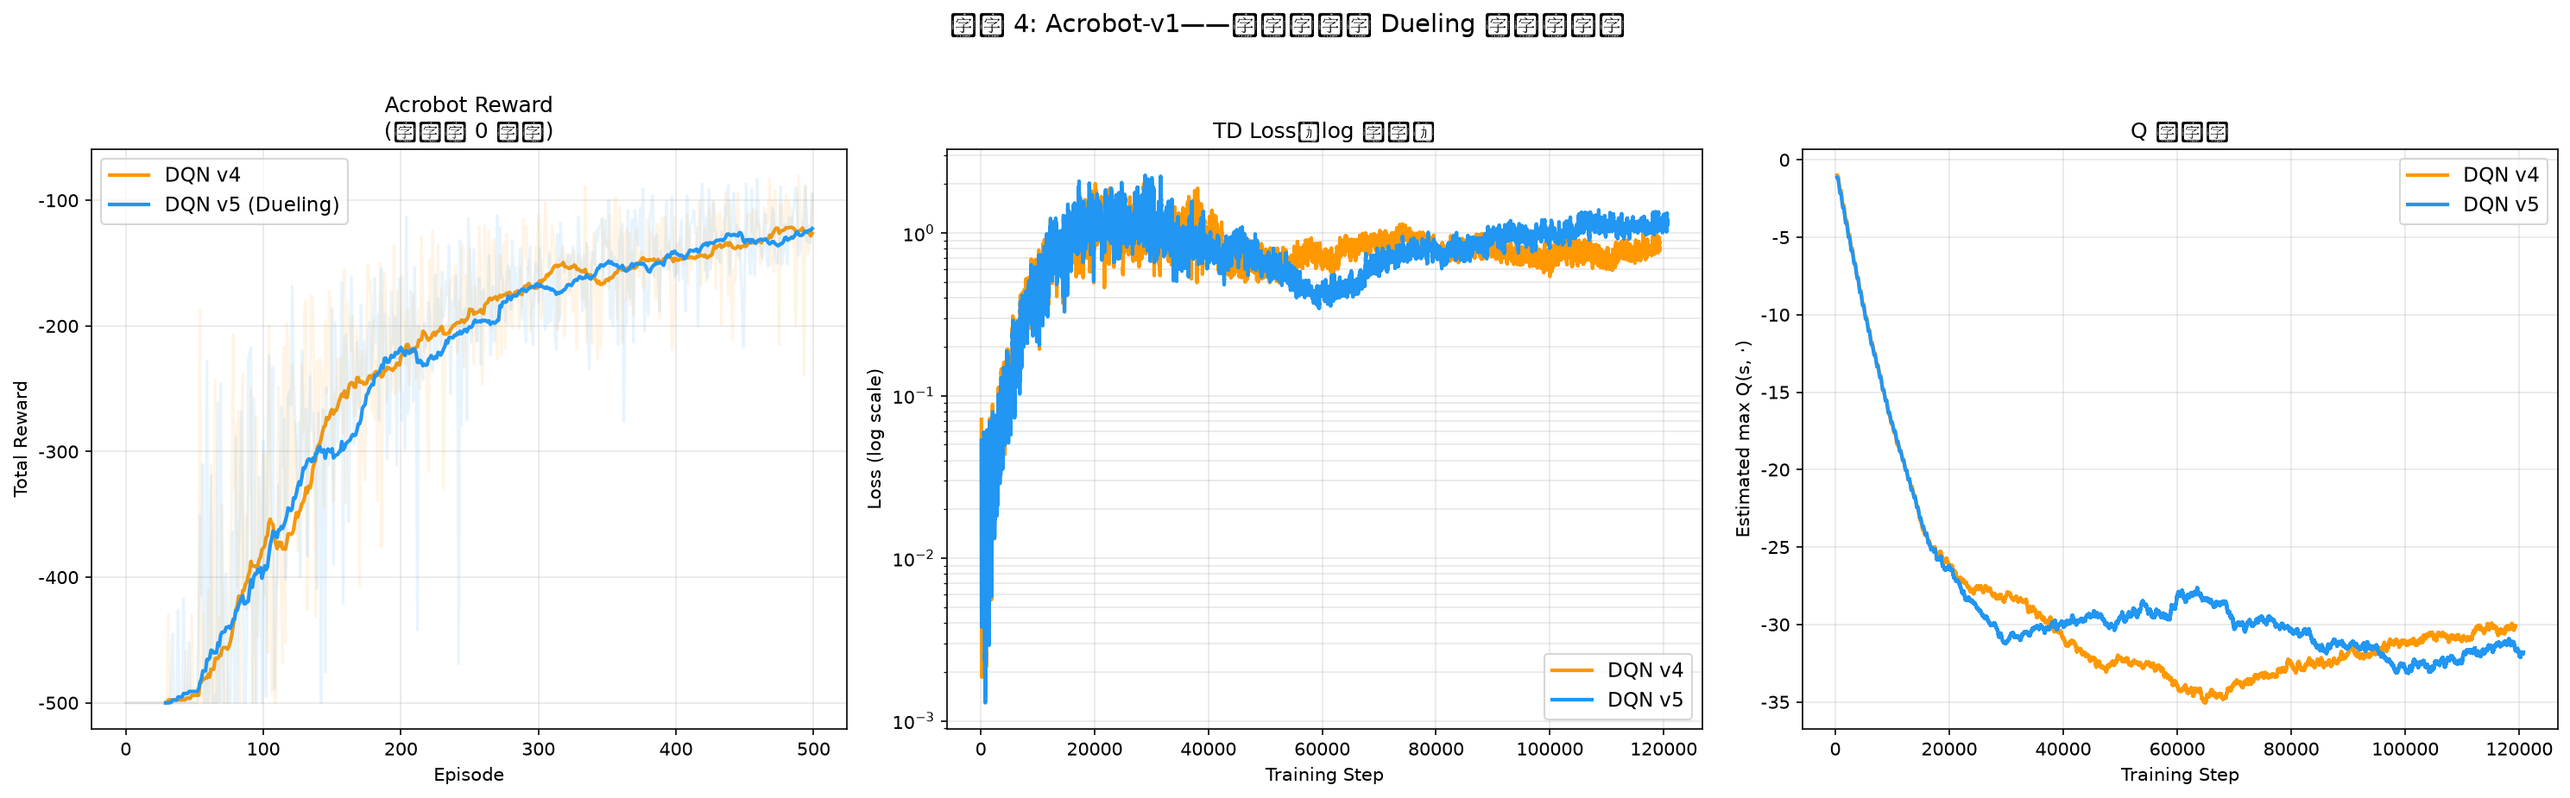
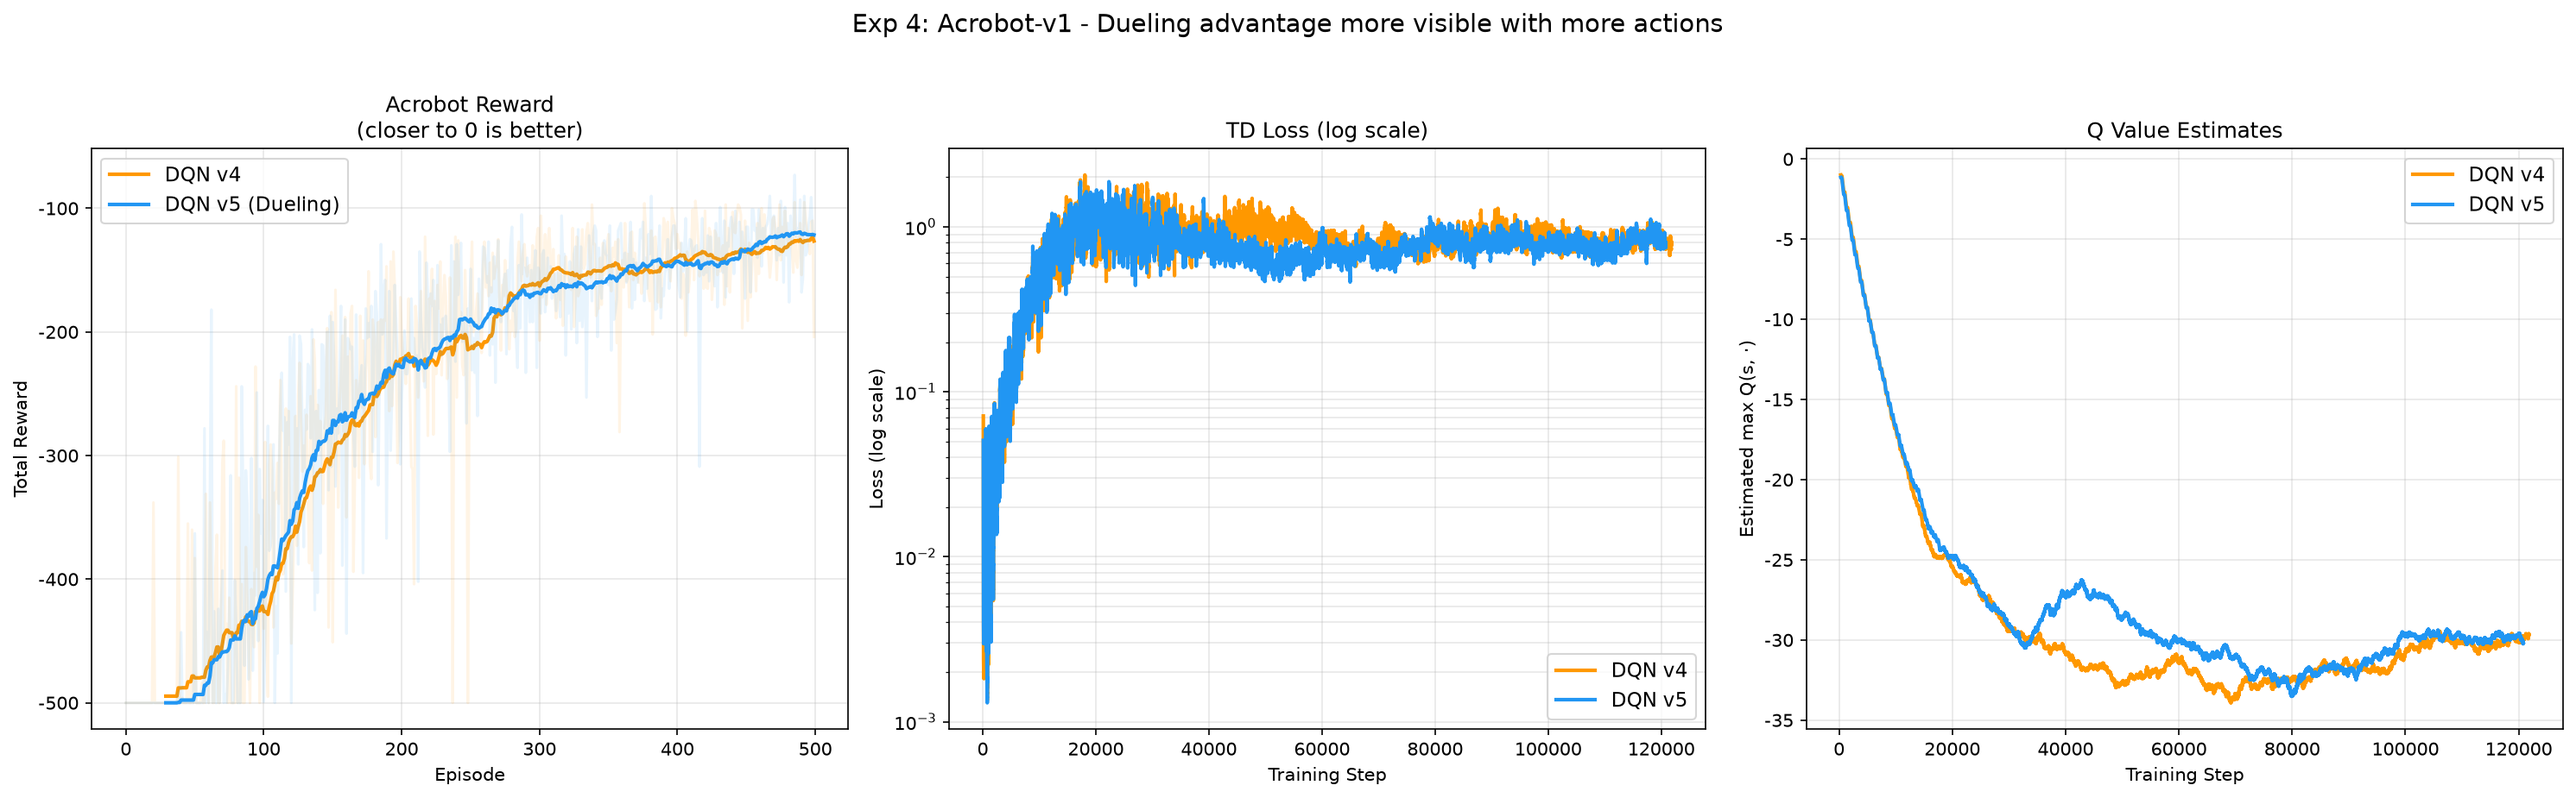
phase-3: fix DQN v5 plots - replace Chinese labels with English

diff --git a/phase3_dqn/dqn_v5_dueling_dqn.py b/phase3_dqn/dqn_v5_dueling_dqn.py
@@ -454,7 +454,7 @@ def visualize_v4_vs_v5(agent_v4, agent_v5, save_path=None):
                      color=color, linewidth=2, label=label)
     axes[0].set_xlabel('Episode')
     axes[0].set_ylabel('Total Reward')
-    axes[0].set_title('Reward 曲线：Dueling 架构加速学习')
+    axes[0].set_title('Reward Curve: Dueling Architecture Accelerates Learning')
     axes[0].legend(fontsize=11)
     axes[0].grid(True, alpha=0.3)
     axes[0].axhline(y=500, color='green', linestyle='--', alpha=0.3)
@@ -470,11 +470,11 @@ def visualize_v4_vs_v5(agent_v4, agent_v5, save_path=None):
     axes[1].set_xlabel('Training Step')
     axes[1].set_ylabel('Loss (log scale)')
     axes[1].set_yscale('log')
-    axes[1].set_title('TD Loss 曲线（log 刻度）')
+    axes[1].set_title('TD Loss (log scale)')
     axes[1].legend(fontsize=11)
     axes[1].grid(True, alpha=0.3, which='both')
 
-    plt.suptitle('实验 1: DQN v4 vs v5（Dueling DQN）', fontsize=14, y=1.02)
+    plt.suptitle('Exp 1: DQN v4 vs v5 (Dueling DQN)', fontsize=14, y=1.02)
     plt.tight_layout()
     if save_path:
         plt.savefig(save_path, dpi=150, bbox_inches='tight')
@@ -501,11 +501,11 @@ def visualize_va_decomposition(agent_v5, save_path=None):
         axes[0].plot(v_vals, alpha=0.08, color='#4CAF50')
         smoothed = smooth(v_vals, window)
         axes[0].plot(range(window - 1, len(v_vals)), smoothed,
-                     color='#4CAF50', linewidth=2, label='V(s) 状态价值')
+                     color='#4CAF50', linewidth=2, label='V(s) state value')
     axes[0].set_xlabel('Training Step')
     axes[0].set_ylabel('V(s)')
-    axes[0].set_title('Value Stream: V(s) 学到的状态价值\n'
-                      '(随训练增长 → 网络逐渐理解"好状态"的价值)')
+    axes[0].set_title('Value Stream: learned state value V(s)\n'
+                      '(grows with training - network learns "how good is this state")')
     axes[0].legend(fontsize=11)
     axes[0].grid(True, alpha=0.3)
 
@@ -515,11 +515,11 @@ def visualize_va_decomposition(agent_v5, save_path=None):
         axes[1].plot(a_vals, alpha=0.08, color='#FF5722')
         smoothed = smooth(a_vals, window)
         axes[1].plot(range(window - 1, len(a_vals)), smoothed,
-                     color='#FF5722', linewidth=2, label='|A(s,a)| 优势幅度')
+                     color='#FF5722', linewidth=2, label='|A(s,a)| advantage magnitude')
     axes[1].set_xlabel('Training Step')
     axes[1].set_ylabel('mean |A(s,a)|')
-    axes[1].set_title('Advantage Stream: 动作间差异的大小\n'
-                      '(幅度小 → 多数状态下动作选择不太重要，V 流主导)')
+    axes[1].set_title('Advantage Stream: magnitude of action differences\n'
+                      '(small |A| = action choice mostly irrelevant, V dominates)')
     axes[1].legend(fontsize=11)
     axes[1].grid(True, alpha=0.3)
 
@@ -532,20 +532,20 @@ def visualize_va_decomposition(agent_v5, save_path=None):
         axes[2].plot(range(window - 1, window - 1 + n), q_smoothed[:n],
                      color='#2196F3', linewidth=2, label='Q(s,a) = V + A')
         axes[2].plot(range(window - 1, window - 1 + n), v_smoothed[:n],
-                     color='#4CAF50', linewidth=2, label='V(s) 部分')
+                     color='#4CAF50', linewidth=2, label='V(s) component')
         axes[2].fill_between(
             range(window - 1, window - 1 + n),
             v_smoothed[:n], q_smoothed[:n],
-            alpha=0.2, color='#FF5722', label='A(s,a) 部分'
+            alpha=0.2, color='#FF5722', label='A(s,a) component'
         )
     axes[2].set_xlabel('Training Step')
     axes[2].set_ylabel('Value')
-    axes[2].set_title('Q = V + A 分解\n'
-                      '(V 占主导，A 只是微调 → Dueling 让 V 的学习更高效)')
+    axes[2].set_title('Q = V + A decomposition\n'
+                      '(V dominates, A is just fine-tuning - Dueling learns V efficiently)')
     axes[2].legend(fontsize=11)
     axes[2].grid(True, alpha=0.3)
 
-    plt.suptitle('实验 2: Dueling DQN 的 V/A 分解可视化', fontsize=14, y=1.02)
+    plt.suptitle('Exp 2: Dueling DQN V/A Decomposition', fontsize=14, y=1.02)
     plt.tight_layout()
     if save_path:
         plt.savefig(save_path, dpi=150, bbox_inches='tight')
@@ -588,9 +588,9 @@ def visualize_advantage_heatmap(agent_v5, save_path=None):
                           extent=[positions[0], positions[-1],
                                   angles[-1], angles[0]],
                           aspect='auto', cmap='RdYlGn')
-    axes[0].set_xlabel('位置 (position)')
-    axes[0].set_ylabel('角度 (angle)')
-    axes[0].set_title('V(s): 状态价值\n(中心高、边缘低 → 稳定状态价值高)')
+    axes[0].set_xlabel('Position')
+    axes[0].set_ylabel('Angle')
+    axes[0].set_title('V(s): State Value\n(high in center, low at edges - stable states are valuable)')
     plt.colorbar(im0, ax=axes[0])
 
     # |A| 热力图
@@ -598,9 +598,9 @@ def visualize_advantage_heatmap(agent_v5, save_path=None):
                           extent=[positions[0], positions[-1],
                                   angles[-1], angles[0]],
                           aspect='auto', cmap='hot')
-    axes[1].set_xlabel('位置 (position)')
-    axes[1].set_ylabel('角度 (angle)')
-    axes[1].set_title('max|A(s,a)|: 动作选择重要性\n(亮 = 选对动作很关键)')
+    axes[1].set_xlabel('Position')
+    axes[1].set_ylabel('Angle')
+    axes[1].set_title('max|A(s,a)|: Action Selection Importance\n(bright = choosing right action is critical)')
     plt.colorbar(im1, ax=axes[1])
 
     # 最优动作
@@ -608,13 +608,13 @@ def visualize_advantage_heatmap(agent_v5, save_path=None):
                           extent=[positions[0], positions[-1],
                                   angles[-1], angles[0]],
                           aspect='auto', cmap='coolwarm')
-    axes[2].set_xlabel('位置 (position)')
-    axes[2].set_ylabel('角度 (angle)')
-    axes[2].set_title('最优动作 (蓝=左, 红=右)\n(与 |A| 热力图对应：亮处=决策边界)')
+    axes[2].set_xlabel('Position')
+    axes[2].set_ylabel('Angle')
+    axes[2].set_title('Best Action (blue=left, red=right)\n(bright regions in |A| heatmap = decision boundary)')
     plt.colorbar(im2, ax=axes[2])
 
-    plt.suptitle('实验 3: Dueling DQN 学到的 V/A 地形\n'
-                 '(固定速度=0, 角速度=0)', fontsize=14, y=1.02)
+    plt.suptitle('Exp 3: Dueling DQN learned V/A landscape\n'
+                 '(velocity=0, angular_velocity=0)', fontsize=14, y=1.02)
     plt.tight_layout()
     if save_path:
         plt.savefig(save_path, dpi=150, bbox_inches='tight')
@@ -638,7 +638,7 @@ def visualize_acrobot(agent_v4, agent_v5, save_path=None):
                      color=color, linewidth=2, label=label)
     axes[0].set_xlabel('Episode')
     axes[0].set_ylabel('Total Reward')
-    axes[0].set_title('Acrobot Reward\n(越接近 0 越好)')
+    axes[0].set_title('Acrobot Reward\n(closer to 0 is better)')
     axes[0].legend(fontsize=11)
     axes[0].grid(True, alpha=0.3)
 
@@ -653,7 +653,7 @@ def visualize_acrobot(agent_v4, agent_v5, save_path=None):
     axes[1].set_xlabel('Training Step')
     axes[1].set_ylabel('Loss (log scale)')
     axes[1].set_yscale('log')
-    axes[1].set_title('TD Loss（log 刻度）')
+    axes[1].set_title('TD Loss (log scale)')
     axes[1].legend(fontsize=11)
     axes[1].grid(True, alpha=0.3, which='both')
 
@@ -667,11 +667,11 @@ def visualize_acrobot(agent_v4, agent_v5, save_path=None):
                          color=color, linewidth=2, label=label)
     axes[2].set_xlabel('Training Step')
     axes[2].set_ylabel('Estimated max Q(s, ·)')
-    axes[2].set_title('Q 值估计')
+    axes[2].set_title('Q Value Estimates')
     axes[2].legend(fontsize=11)
     axes[2].grid(True, alpha=0.3)
 
-    plt.suptitle('实验 4: Acrobot-v1——动作更多时 Dueling 优势更明显',
+    plt.suptitle('Exp 4: Acrobot-v1 - Dueling advantage more visible with more actions',
                  fontsize=14, y=1.02)
     plt.tight_layout()
     if save_path:
@@ -919,7 +919,7 @@ def experiment_multi_seed():
 if __name__ == '__main__':
     os.makedirs('images', exist_ok=True)
 
-    plt.rcParams['font.sans-serif'] = ['Arial Unicode MS', 'SimHei', 'DejaVu Sans']
+    plt.rcParams['font.sans-serif'] = ['DejaVu Sans']
     plt.rcParams['axes.unicode_minus'] = False
 
     # --- 实验 1：v4 vs v5 ---
